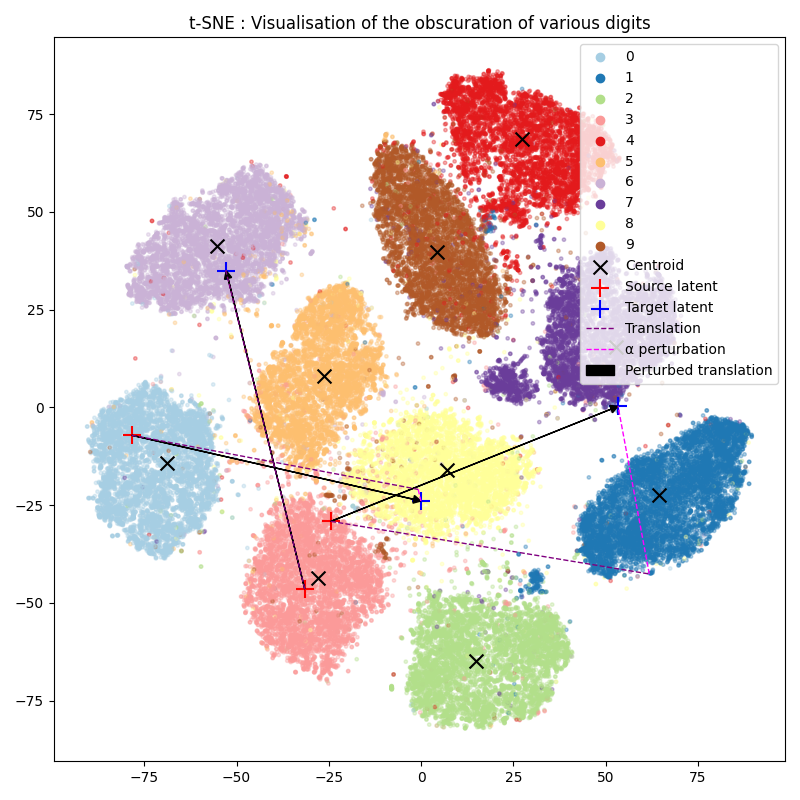
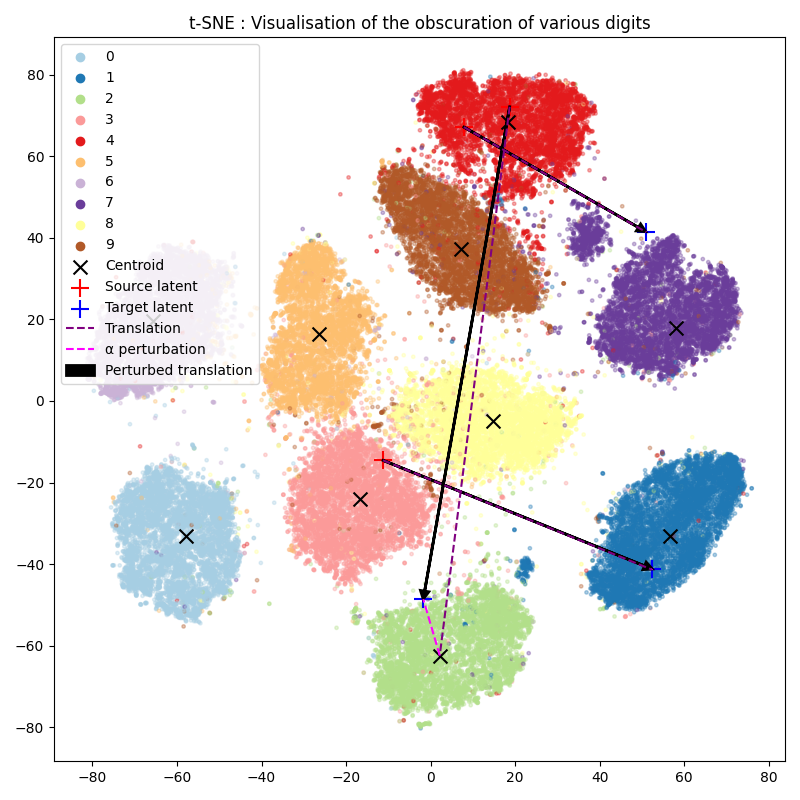
Generated neater results

diff --git a/Sources/code/transform/batch_translation.py b/Sources/code/transform/batch_translation.py
@@ -1,0 +1,127 @@
+import numpy as np
+import tensorflow as tf
+from keras.datasets import mnist
+import matplotlib.pyplot as plt
+import matplotlib.gridspec as gridspec
+from matplotlib.colors import Normalize
+
+from sklearn.manifold import TSNE
+
+from code.utils import cache, latent, utils, models
+
+np.random.seed(42)
+tf.keras.utils.set_random_seed(42)
+
+(x_train, y_train), (x_test, y_test) = mnist.load_data()
+x_train, x_test = utils.preprocess_dataset(x_train, x_test)
+
+digits = np.array([
+    [157, 713, 1261, 3911, 5684, 5865, 8067, 8199, 8681, 9753],   # 0
+    [31, 783, 1240, 2719, 4308, 4428, 4759, 6202, 6308, 7217],    # 1
+    [291, 741, 888, 1210, 1303, 2253, 4445, 5407, 7977, 9032],    # 2
+    [614, 865, 923, 2881, 3493, 3686, 4925, 7329, 8598, 9787],    # 3
+    [117, 1059, 1849, 2307, 4813, 5525, 5559, 6516, 7669, 7937],  # 4
+    [1089, 2525, 3788, 4094, 4196, 5445, 5364, 7475, 8122, 9428], # 5
+    [54, 164, 1108, 2483, 2766, 2876, 6842, 8200, 8828, 9178],    # 6
+    [410, 522, 880, 1750, 4073, 4467, 5205, 6079, 6380, 8749],    # 7
+    [914, 2004, 2451, 4165, 6297, 7313, 7713, 8466, 9042, 9385],  # 8
+    [1869, 3840, 4843, 5456, 7246, 7382, 8084, 8372, 8899, 8977]  # 9
+])
+
+autoencoder, _ = models.select_model(
+    models.list_models(criteria={"type":"autoencoder", "labels" : False, "dataset_range" : (0, 1)})
+)
+
+z_train = latent.encode(
+    autoencoder,
+    x=x_train,
+    y=y_train,
+    n_times=2,
+    save_cache=True
+)
+
+z_class_distributions = latent.class_distributions(z_train, y_train)
+
+z_mean = np.array([z_class_distributions[c][0] for c in sorted(z_class_distributions)])
+
+y_src, y_dst = 2, 6
+
+i_src = digits[y_src]
+
+z_src = latent.encode(
+    autoencoder,
+    x_test[i_src],
+    y_test[i_src],
+    2,
+    save_cache=True
+)
+
+z_dst = latent.translate(z_src, np.full(len(i_src), y_src), np.full(len(i_src), y_dst), z_class_distributions, use_std=False)
+
+x_src = autoencoder.decoder.predict(z_src)
+x_dst = autoencoder.decoder.predict(z_dst)
+
+z_all, config = utils.pack_arrays(z_train, z_mean, z_src, z_dst)
+tsne = TSNE(n_components=2, random_state=1337, perplexity=75)
+z_tsne = tsne.fit_transform(z_all)
+z_train_tsne, z_mean_tsne, z_src_tsne, z_dst_tsne = utils.unpack_arrays(z_tsne, config)
+
+fig = plt.figure(figsize=(18, 10), constrained_layout=True)
+gs  = gridspec.GridSpec(5, 9, figure=fig)
+
+for row, idx in enumerate(np.arange(5)):
+    ax = fig.add_subplot(gs[row, 0])
+    ax.imshow(x_src[idx].squeeze(), cmap='gray')
+    ax.set_xticks([]); ax.set_yticks([])
+
+    ax = fig.add_subplot(gs[row, 1])
+    ax.imshow(x_dst[idx].squeeze(), cmap='gray')
+    ax.set_xticks([]); ax.set_yticks([])
+
+for row, idx in enumerate(np.arange(5, 10)):
+    ax = fig.add_subplot(gs[row, 2])
+    ax.imshow(x_src[idx].squeeze(), cmap='gray')
+    ax.set_xticks([]); ax.set_yticks([])
+
+    ax = fig.add_subplot(gs[row, 3])
+    ax.imshow(x_dst[idx].squeeze(), cmap='gray')
+    ax.set_xticks([]); ax.set_yticks([])
+
+ax_tsne = fig.add_subplot(gs[:, 4:9])
+ax_tsne.set_aspect('equal', 'box')
+
+ax_tsne.scatter(z_train_tsne[:, 0], z_train_tsne[:, 1], c=y_train, cmap="Paired", alpha=0.35, s=6)
+
+classes = np.unique(y_test)
+norm = Normalize(vmin=classes.min(), vmax=classes.max())
+for c in classes:
+    ax_tsne.scatter([], [], color=plt.cm.Paired(norm(c)), label=str(c))
+
+ax_tsne.scatter(*z_mean_tsne[y_src], marker="x", c="red", s=100, label="Source centroid")
+ax_tsne.scatter(*z_mean_tsne[y_dst], marker="x", c="blue", s=100, label="Destination centroid")
+
+ax_tsne.arrow(
+    *z_mean_tsne[y_src],
+    *(z_mean_tsne[y_dst] - z_mean_tsne[y_src]),
+    color="black",
+    width=0.2,
+    head_width=0.5,
+    length_includes_head=True,
+    label="Centroid translation"
+)
+
+ax_tsne.scatter(z_src_tsne[:,0], z_src_tsne[:,1], marker="+", c="red", s=150, label="Source sample")
+ax_tsne.scatter(z_dst_tsne[:,0], z_dst_tsne[:,1], marker="+", c="blue", s=150, label="Destination sample")
+
+for i in range(len(z_src_tsne)):
+    ax_tsne.arrow(
+        *z_src_tsne[i], *(z_dst_tsne[i] - z_src_tsne[i]),
+        color="purple", width=0.2, head_width=0.5,
+        length_includes_head=True,
+        label="Sample translation" if i==0 else None
+    )
+
+ax_tsne.set_title(f"t-SNE : Translation from {y_src} → {y_dst}")
+ax_tsne.legend(loc="upper left")
+#plt.tight_layout()
+plt.savefig(cache.RESULTS_FOLDER / "Projections" / f"mnist-batch-translation-tsne-{y_src}-{y_dst}.png")

diff --git a/Sources/code/transform/translation_vectors.py b/Sources/code/transform/translation_vectors.py
@@ -12,8 +12,8 @@ from code.utils import cache, latent, utils, models
 np.random.seed(42)
 tf.keras.utils.set_random_seed(42)
 
-(x_train, y_train), (x_test, y_test) = mnist.load_data()
-x_train, x_test = utils.preprocess_dataset(x_train, x_test)
+(x_train, y_train), (_, _) = mnist.load_data()
+x_train, = utils.preprocess_dataset(x_train)
 
 autoencoder, _ = models.select_model(
     models.list_models(criteria={"type": "autoencoder", "labels": False, "dataset_range": (0, 1)})
@@ -27,54 +27,66 @@ z_train = latent.encode(
     save_cache=True
 )
 
-z_test = latent.encode(
-    autoencoder,
-    x=x_test,
-    y=y_test,
-    n_times=2,
-    save_cache=True
-)
+z_class_distributions = latent.class_distributions(z_train, y_train)
 
+z_mean = np.array([z_class_distributions[c][0] for c in sorted(z_class_distributions)])
+
+z_all, configuration = utils.pack_arrays(z_train, z_mean)
+
+tsne = TSNE(n_components=2, random_state=1337, perplexity=75)
+
+z_tsne = tsne.fit_transform(z_all)
 y_srcs = np.array([2, 4])
 
-classes = np.unique(y_train)
-latent_centroids = np.vstack([
-    z_train[y_train == cls].mean(axis=0)
-    for cls in classes
-])
+z_train_tsne, z_mean_tsne = utils.unpack_arrays(z_tsne, configuration)
 
-tsne = TSNE(n_components=2, random_state=1337, max_iter=300)
-all_embeddings = tsne.fit_transform(
-    np.vstack([z_test, latent_centroids])
-)
-
-z_tsne = all_embeddings[: len(z_test)]
-centroid_tsne = {
-    cls: all_embeddings[len(z_test) + i]
-    for i, cls in enumerate(classes)
-}
+unique_classes = np.unique(y_train)
+norm = Normalize(vmin=min(unique_classes), vmax=max(unique_classes))
+cmap = plt.cm.Paired
 
 plt.figure(figsize=(8, 8))
 plt.scatter(
-    z_tsne[:, 0],
-    z_tsne[:, 1],
-    c=y_test,
+    z_train_tsne[:, 0],
+    z_train_tsne[:, 1],
+    c=y_train,
     cmap="Paired",
     alpha=0.35,
     s=6
 )
 
-norm = Normalize(vmin=classes.min(), vmax=classes.max())
-cmap = plt.cm.Paired
+for class_label in unique_classes:
+    plt.scatter([], [], color=plt.cm.Paired(norm(class_label)), label=str(class_label))
 
-for cls in classes:
-    plt.scatter([], [], color=cmap(norm(cls)), label=str(cls))
+plt.scatter(
+    z_mean_tsne[:, 0], z_mean_tsne[:, 1],
+    color="black",
+    marker="x",
+    s=100,
+    label="Centroid"
+)
 
-desaturation_factor = 0.5
+plt.legend()
+plt.tight_layout()
+plt.savefig(cache.RESULTS_FOLDER / "Projections" / "mnist-centroids-tsne.png")
+
+plt.figure(figsize=(8, 8))
+plt.scatter(
+    z_train_tsne[:, 0],
+    z_train_tsne[:, 1],
+    c=y_train,
+    cmap="Paired",
+    alpha=0.35,
+    s=6
+)
+
+for class_label in unique_classes:
+    plt.scatter([], [], color=plt.cm.Paired(norm(class_label)), label=str(class_label))
+
+desaturation_factor = 0.55
 brightness_factor = 0.75
 
 for y_src in y_srcs:
-    src = centroid_tsne[y_src]
+    src = z_mean_tsne[y_src]
     base_rgba = cmap(norm(y_src))
     rgb = base_rgba[:3]
     hsv = matplotlib.colors.rgb_to_hsv(rgb)
@@ -82,7 +94,7 @@ for y_src in y_srcs:
     hsv[2] *= brightness_factor
     desat_rgb = matplotlib.colors.hsv_to_rgb(hsv)
     desat_rgba = (*desat_rgb, base_rgba[3])
-    for y_dst, dst in centroid_tsne.items():
+    for y_dst, dst in enumerate(z_mean_tsne):
         if y_src == y_dst:
             continue
         plt.arrow(
@@ -90,18 +102,18 @@ for y_src in y_srcs:
             dst[0] - src[0],
             dst[1] - src[1],
             color=desat_rgba,
-            width=0.05
+            width=0.5,
+            length_includes_head=True
         )
 
-for cls, centroid in centroid_tsne.items():
-    plt.scatter(
-        centroid[0], centroid[1],
-        color="black",
-        marker="x",
-        s=100,
-        label="Centroid" if cls == classes[0] else None
-    )
+plt.scatter(
+    z_mean_tsne[:, 0], z_mean_tsne[:, 1],
+    color="black",
+    marker="x",
+    s=100,
+    label="Centroid"
+)
 
 plt.legend()
 plt.tight_layout()
-plt.savefig(cache.RESULTS_FOLDER / "mnist-translation-vectors.png")
+plt.savefig(cache.RESULTS_FOLDER / "Projections" / "mnist-translation-vectors.png")

diff --git a/Sources/code/obscuration/obscuration_examples.py b/Sources/code/obscuration/obscuration_examples.py
@@ -25,9 +25,9 @@ classifier, _ = models.select_model(models.list_models(
 # Inv translatés
 
 digit_indices = np.array([
-    620, # 0
-    3701, # 3
     9100, # 3
+    4576, # 4 
+    6271, # 4
 ])
 
 x_src = x_test[digit_indices]
@@ -113,7 +113,7 @@ plt.savefig(cache.RESULTS_FOLDER / f"mnist-obscuration-translation-examples-{key
 
 z_all, configuration = utils.pack_arrays(z_train, z_mean, z_src, z_dst, z_dst_alpha)
 
-tsne = TSNE(n_components=2, random_state=1337, perplexity=50)
+tsne = TSNE(n_components=2, random_state=1337, perplexity=75)
 
 z_tsne = tsne.fit_transform(z_all)
 
@@ -143,23 +143,23 @@ for i in range(len(z_src_tsne)):
     plt.plot(
         [z_src_tsne[i, 0], z_dst_tsne[i, 0]],
         [z_src_tsne[i, 1], z_dst_tsne[i, 1]],
-        linestyle='--', color='purple', linewidth=1, label="Translation" if i == 0 else None
+        linestyle='--', color='purple', linewidth=1.5, label="Translation" if i == 0 else None
     )
     
     plt.plot(
         [z_dst_tsne[i, 0], z_dst_alpha_tsne[i, 0]],
         [z_dst_tsne[i, 1], z_dst_alpha_tsne[i, 1]],
-        linestyle='--', color='magenta', linewidth=1, label="α perturbation" if i == 0 else None
+        linestyle='--', color='magenta', linewidth=1.5, label="α perturbation" if i == 0 else None
     )
 
     plt.arrow(
         z_src_tsne[i, 0], z_src_tsne[i, 1],
         z_dst_alpha_tsne[i, 0] - z_src_tsne[i, 0],
         z_dst_alpha_tsne[i, 1] - z_src_tsne[i, 1],
-        color='black', linewidth=1, head_width=2, head_length=2, length_includes_head=True, label="Perturbed translation" if i == 0 else None
+        color='black', linewidth=2, head_width=2, head_length=2, length_includes_head=True, label="Perturbed translation" if i == 0 else None
     )
 
 plt.title(f"t-SNE : Visualisation of the obscuration of various digits")
-plt.legend()
+plt.legend(loc="upper left")
 plt.tight_layout()
 plt.savefig(cache.RESULTS_FOLDER / "Projections" / "mnist-obscuration-translation-tsne.png")
